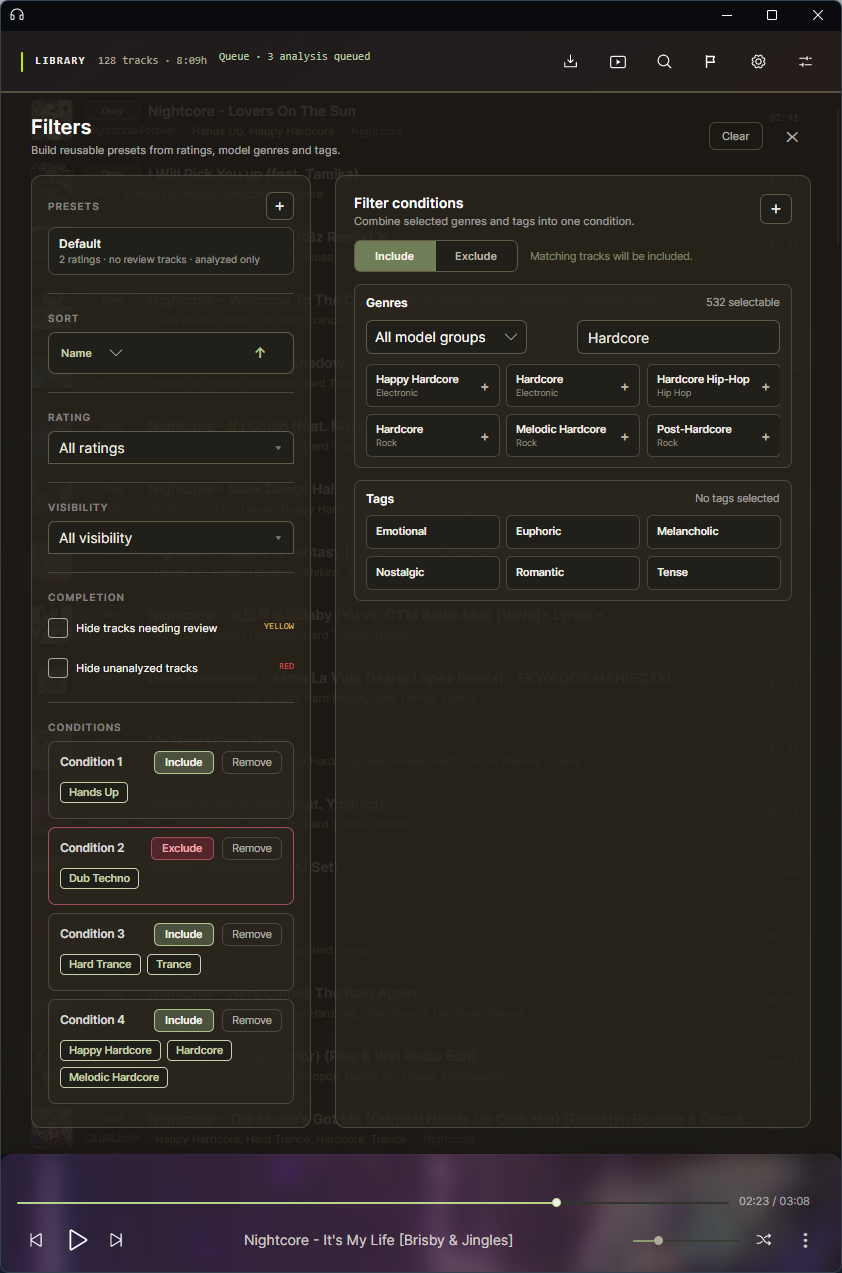
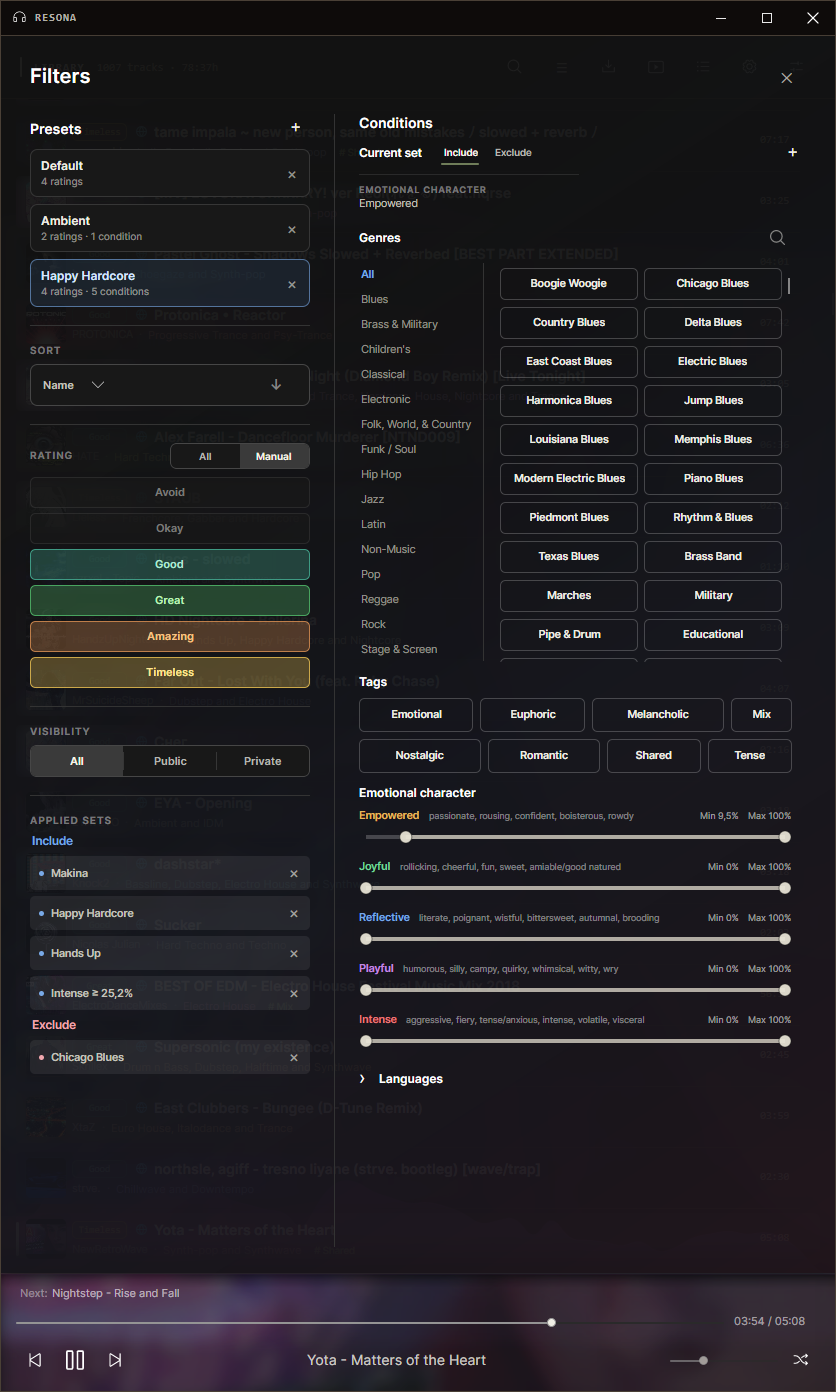
upd readme

diff --git a/README.md b/README.md
@@ -1,22 +1,55 @@
 # Resona
 
-Resona is a local-first desktop app for building, analyzing, and curating a personal music library.
+**Your music, your library, your decisions.**
 
-It combines playback and library management with queued imports from YouTube videos, playlists, mixes, and radio links. Imported tracks can be analyzed with Essentia-based models to suggest genres and extract information such as BPM, loudness, dynamics, and emotional character.
+Resona is a local-first desktop music app for people who want more than a folder full of audio files. It brings playback, discovery, analysis, and careful library curation together in one place—while your music and your personal data remain under your control.
 
-The library can be searched, filtered, rated, tagged, and refined in a dedicated track editor. A channel hub helps discover, follow, review, and optionally download new uploads from channels already represented in the library. Resona also includes configurable artwork and audio visualization, Discord Rich Presence, review workflows, local database backups, and portable Android library exports.
+Add a YouTube video, playlist, mix, or radio link and Resona takes care of the routine work. Tracks are downloaded through a persistent queue and can be analyzed with Essentia-based models for genre suggestions, BPM, loudness, dynamics, and emotional character. You decide what belongs in your library, how it should be rated, and how it should be organized.
+
+Once the collection grows, powerful filters, tags, languages, ratings, and the dedicated track editor make it easy to find exactly the right sound. The Channel Hub follows artists and channels already represented in your library, while public Resona profiles offer another way to discover music through people you know.
+
+Resona also includes artwork-driven visuals, Discord Rich Presence, review workflows, local database backups, portable Android library exports, and a self-hostable cloud service. Cloud data is used for discovery; downloads still follow the normal local import and analysis pipeline.
 
 ## Linux
 
-Linux x64 releases are available as an AppImage. Playback uses the system `libvlc`; imports rely on `yt-dlp`, FFmpeg, FFprobe, and Node.js. Missing runtime dependencies are shown in the app settings, and desktop media controls are supported through MPRIS.
+Linux x64 releases are available as an AppImage. Playback uses the system `libvlc`, while imports rely on `yt-dlp`, FFmpeg, FFprobe, and Node.js. Resona reports missing runtime dependencies in the settings and integrates with desktop media controls through MPRIS.
 
 ## Screenshots
-> These screenshots are outdated and will be replaced soon.
-> 
+
+> Resona is evolving quickly. A few details in these screenshots may differ from the current interface, and updated images are coming soon.
+
+### Your library at a glance
+
+Browse, play, rate, and manage the collection from the central library view.
+
 ![Library view](docs/images/library.png)
+
+### Make every track your own
+
+Edit metadata, ratings, classifications, language, and analysis results in one focused view.
 
 ![Track editor](docs/images/edit.png)
 
-![Channel manager](docs/images/channels.png)
+### Find the exact mood
+
+Combine ratings, genres, tags, languages, visibility, and emotional character ranges.
 
 ![Filter](docs/images/filter.png)
+
+### Discover through channels
+
+Follow channels already connected to your library and keep an eye on new uploads.
+
+![Channel manager](docs/images/channels.png)
+
+### Review before it joins the library
+
+Inspect channel tracks, download interesting finds, and make the final decision yourself.
+
+![Channel tracks](docs/images/channel-tracks.png)
+
+### Tune Resona to your setup
+
+Configure playback, analysis, appearance, backups, cloud access, integrations, and external tools.
+
+![Settings](docs/images/settings.png)
